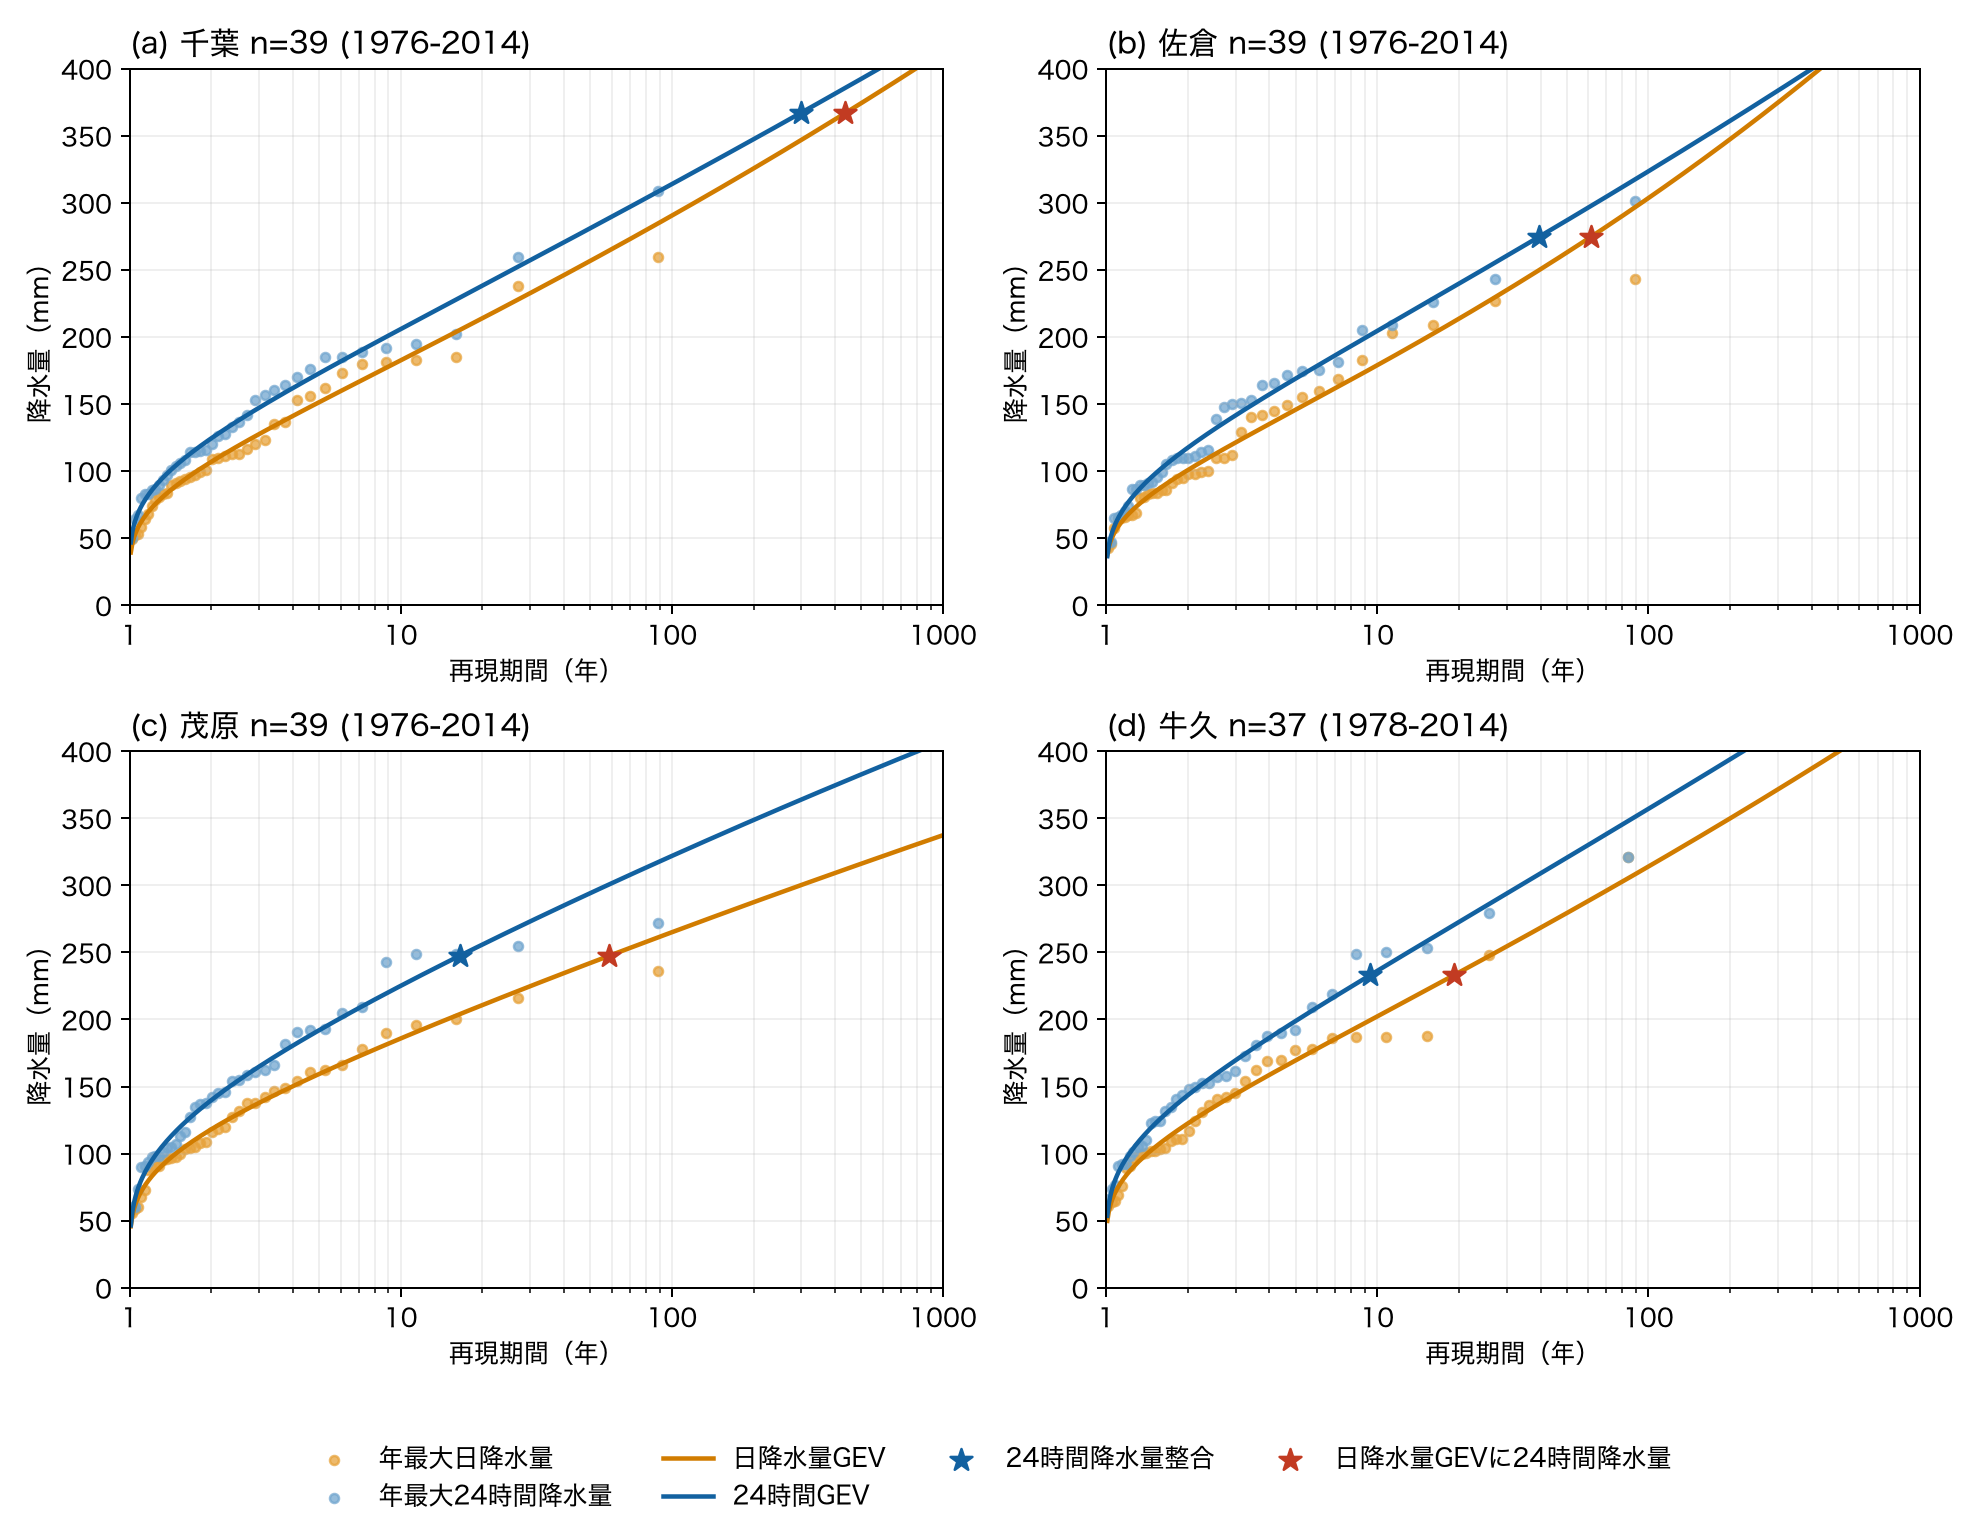
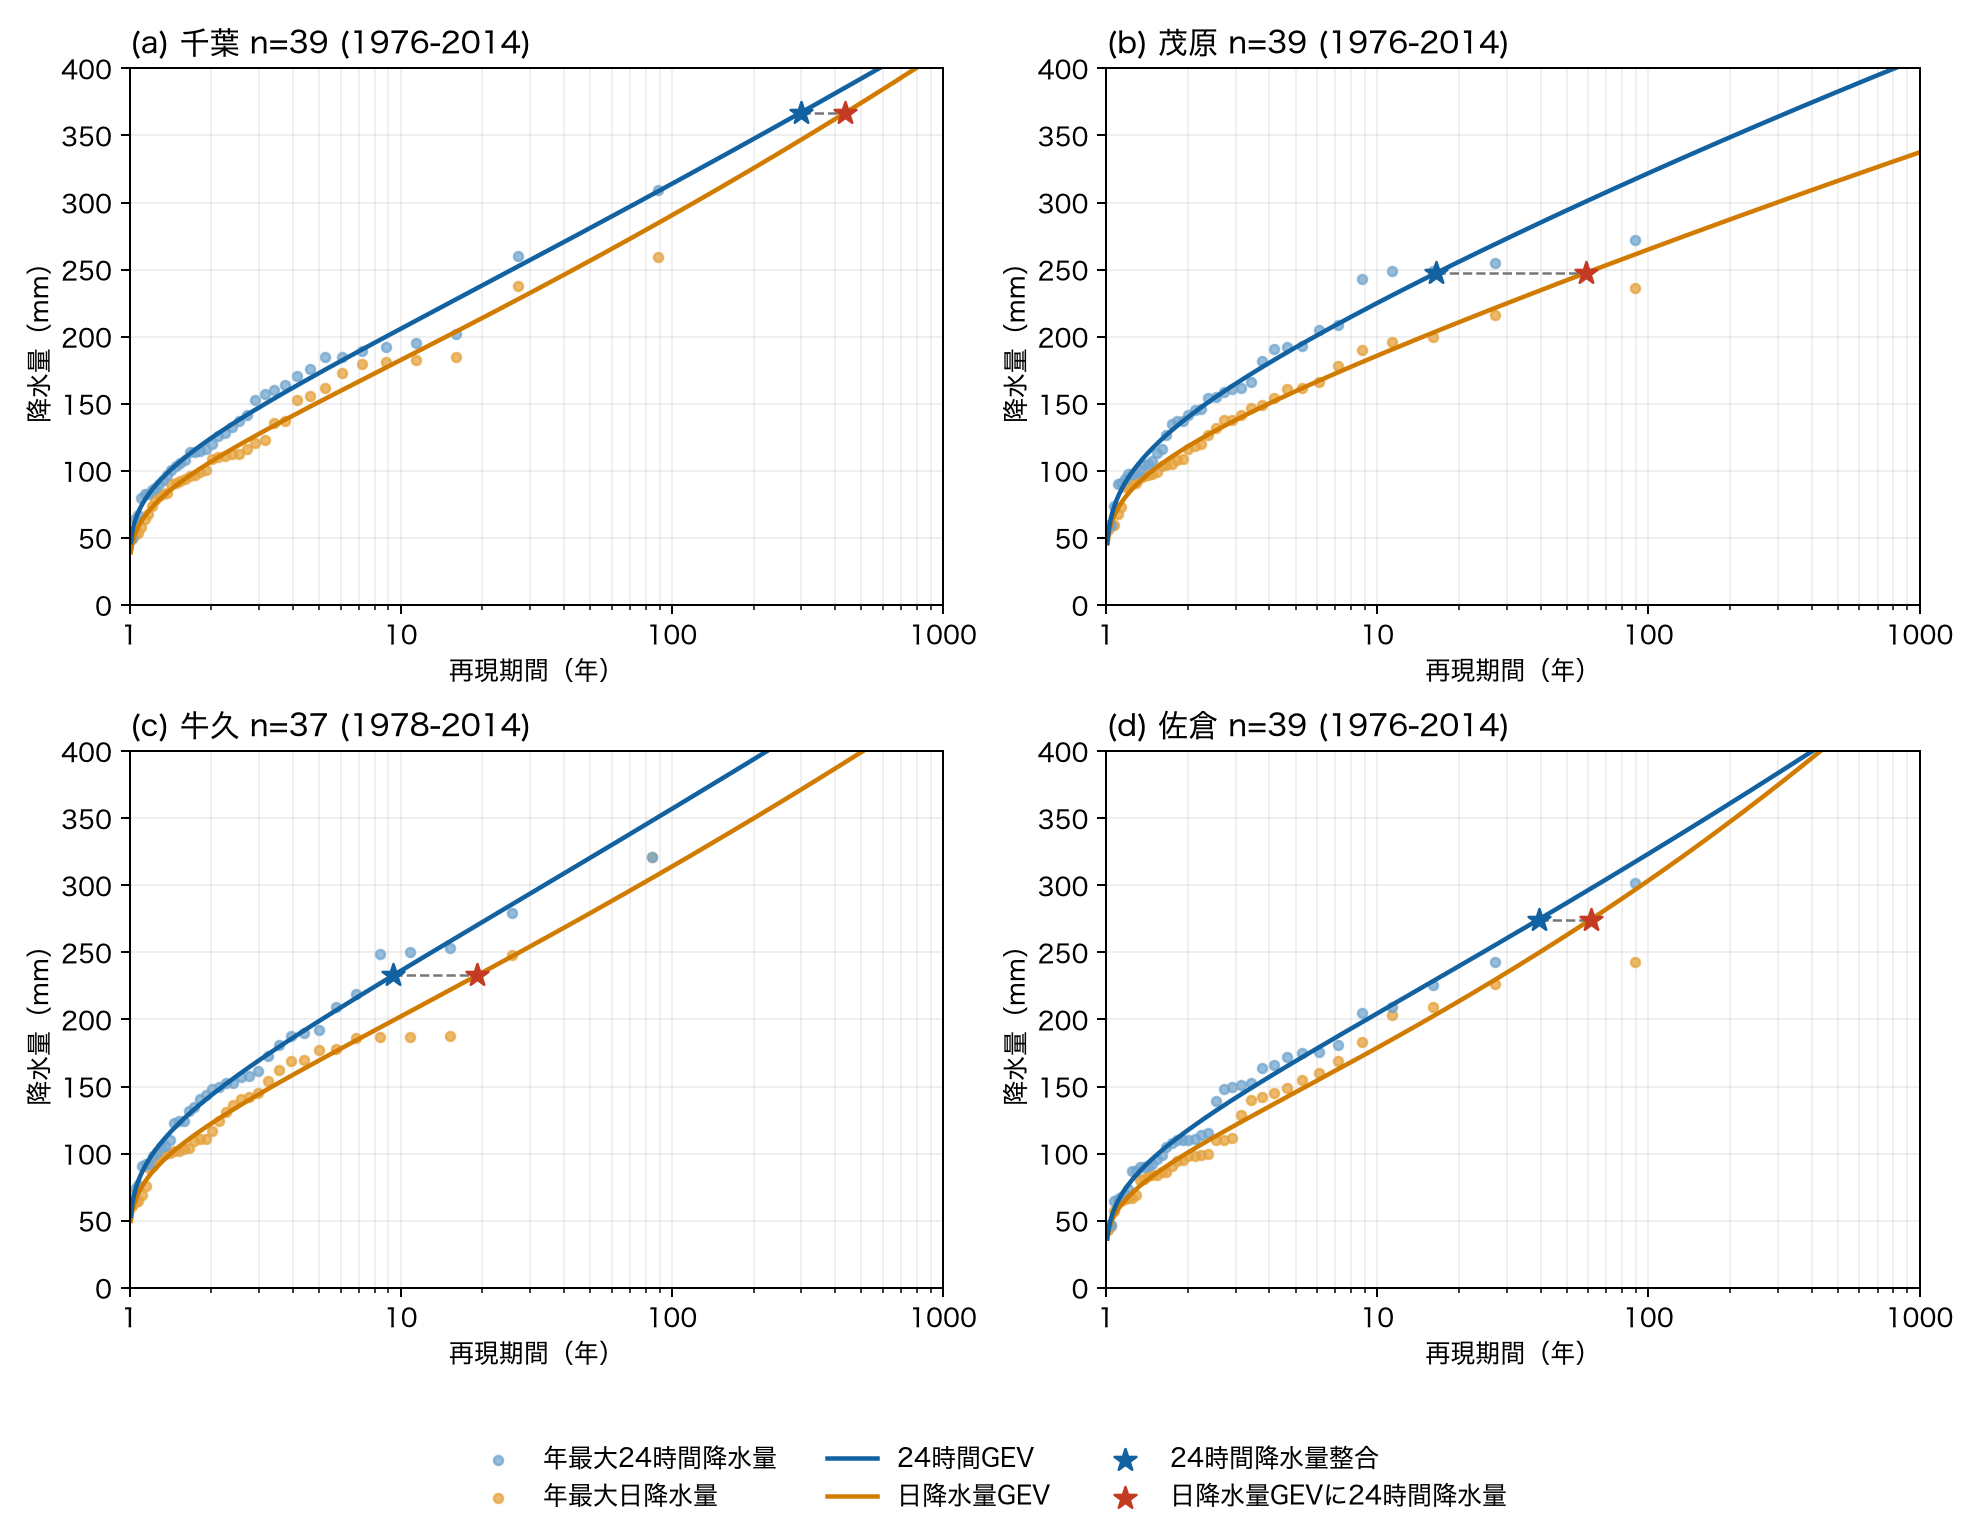
図1の比較関係と記事構成を明確化

diff --git a/src/chiba_heavy_rain/daily_vs_24h.py b/src/chiba_heavy_rain/daily_vs_24h.py
@@ -223,11 +223,12 @@ def _plot_gev(
     summary: pd.DataFrame,
     output: Path,
 ) -> None:
+    panel_station_names = ("千葉", "茂原", "牛久", "佐倉")
     periods = np.geomspace(1.01, 1000, 500)
     fig, axes = plt.subplots(2, 2, figsize=(11, 8.5), squeeze=False)
     primary = summary.loc[summary["analysis_variant"] == "all_numeric"].set_index("station")
     for panel_index, (ax, station_name) in enumerate(
-        zip(axes.ravel(), ARTICLE_STATION_NAMES, strict=True)
+        zip(axes.ravel(), panel_station_names, strict=True)
     ):
         frame = paired_frames[station_name]
         row = primary.loc[station_name]
@@ -281,6 +282,18 @@ def _plot_gev(
                 "日降水量GEVに24時間降水量",
             ),
         )
+        marker_x_values = [
+            min(period, 1000) if np.isfinite(period) else 1000
+            for period, _, _, _ in marker_points
+        ]
+        ax.plot(
+            marker_x_values,
+            [float(row["event_24h_mm"])] * 2,
+            color="#777777",
+            lw=1.0,
+            linestyle="--",
+            zorder=4,
+        )
         for period, rainfall, color, label in marker_points:
             x_value = min(period, 1000) if np.isfinite(period) else 1000
             ax.scatter(x_value, rainfall, marker="*", s=85, color=color, zorder=5, label=label)
@@ -297,7 +310,15 @@ def _plot_gev(
         ax.set_ylabel("降水量（mm）")
         ax.grid(which="both", alpha=0.2)
     handles, labels = axes.ravel()[0].get_legend_handles_labels()
-    fig.legend(handles, labels, loc="lower center", ncol=4, frameon=False)
+    # Matplotlib fills multi-column legends down each column.
+    legend_order = [1, 0, 3, 2, 4, 5]
+    fig.legend(
+        [handles[index] for index in legend_order],
+        [labels[index] for index in legend_order],
+        loc="lower center",
+        ncol=3,
+        frameon=False,
+    )
     fig.tight_layout(rect=(0, 0.09, 1, 1))
     fig.savefig(output)
     plt.close(fig)

diff --git a/results/report.md b/results/report.md
@@ -65,7 +65,13 @@
 
 ### 結果
 
-表1では、4地点すべてで元記事の再現期間が「24時間降水量整合」の推定値を上回った。一方、最大24時間降水量を日降水量GEVに当てはめると、再現期間は4地点すべてで長くなり、元記事の値に近づいた。0時から24時までの日別データから推定した分布に、時別値または10分値から求めた24時間降水量を直接比較する時間定義の不整合は、再現期間を長く算出する一因になり得る。
+図1では、今回の最大24時間降水量を二つのGEV分布で評価した結果を比較した。青星と赤星は同じ雨量を表しており、青星は24時間降水量GEV、赤星は日降水量GEVに当てはめた再現期間である。
+
+**図1　年最大日降水量と年最大24時間降水量に基づくGEV分布の比較。** 青点と青線は年最大24時間降水量とそのGEV分布、橙点と橙線は年最大日降水量とそのGEV分布を示す。青星と赤星はいずれも2026年8月豪雨の最大24時間降水量を表し、青星は24時間降水量GEV、赤星は日降水量GEVで評価した再現期間である。両者を結ぶ破線は、同じ雨量を異なるGEV分布で評価していることを示す。解析期間は1976～2014年、牛久のみ1978～2014年である。
+
+![年最大日降水量と年最大24時間降水量に基づくGEV分布の比較](daily_vs_24h_gev.png)
+
+4地点すべてで赤星が青星より右側にあり、日降水量GEVに最大24時間降水量を直接当てはめると、再現期間が長くなった。具体的な値と元記事との比較を表1に示す。
 
 **表1　地上観測から推定した再現期間と元記事に記載された再現期間の比較。** 計算値は、1976～2014年（牛久のみ1978～2014年）の年最大日降水量または年最大24時間降水量にLモーメント法による定常GEV分布を適用して求めた。「24時間降水量整合」は24時間降水量GEVに今回の最大24時間降水量を、「日降水量GEVに24時間降水量」は日降水量GEVに同じ最大24時間降水量を当てはめた値である。
 
@@ -76,13 +82,9 @@
 | 牛久 | 233.0 | 9.40年 | 19.2年 | 市原市中部 | 80～150年程度 |
 | 佐倉 | 274.5 | 39.4年 | 61.2年 | 八千代・佐倉付近 | 80～150年程度 |
 
+表1では、4地点すべてで元記事の再現期間が「24時間降水量整合」の推定値を上回った。一方、最大24時間降水量を日降水量GEVに当てはめた再現期間は、4地点すべてで元記事の値に近づいた。0時から24時までの日別データから推定した分布に、時別値または10分値から求めた24時間降水量を直接比較する時間定義の不整合は、再現期間を長く算出する一因になり得る。
+
 ただし、元記事の解析雨量とアメダスの地点雨量は一致しない。特に茂原では、アメダスの最大24時間降水量が247.5 mmだったのに対し、元記事の解析雨量は327.5 mmである。この雨量差が、アメダスから推定した再現期間が元記事より短くなった大きな要因である可能性がある。一方、千葉ではアメダスの367.0 mmと解析雨量の362.3 mmが近く、雨量値の違いだけでは再現期間の差を説明しにくい。
-
-
-
-**図1　地上観測に基づく年最大日降水量・年最大24時間降水量とGEV分布の適合結果。** 橙色と青色の点は、それぞれ気象庁観測所における各年の最大日降水量と最大24時間降水量、同色の線はLモーメント法で推定した定常GEV分布を示す。星印は2026年8月豪雨の最大24時間降水量を各GEV分布で評価した再現期間で、青色は「24時間降水量整合」、赤色は「日降水量GEVに24時間降水量」を示す。解析期間は1976～2014年、牛久のみ1978～2014年である。
-
-![地上観測に基づく年最大日降水量・年最大24時間降水量とGEV分布の適合結果](daily_vs_24h_gev.png)
 
 ### まとめ
 
